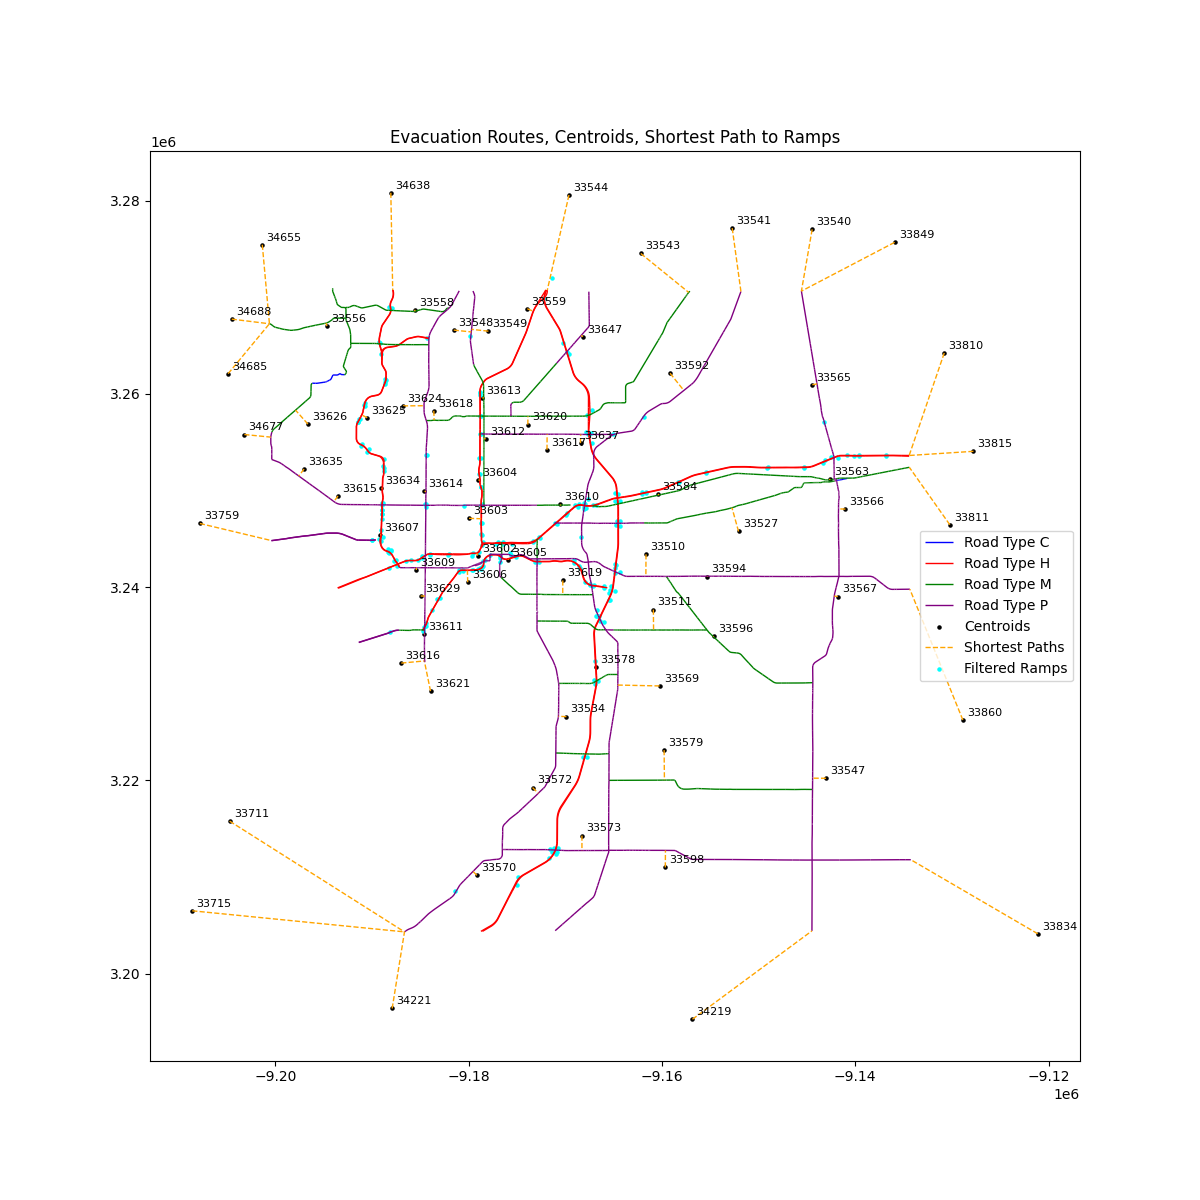
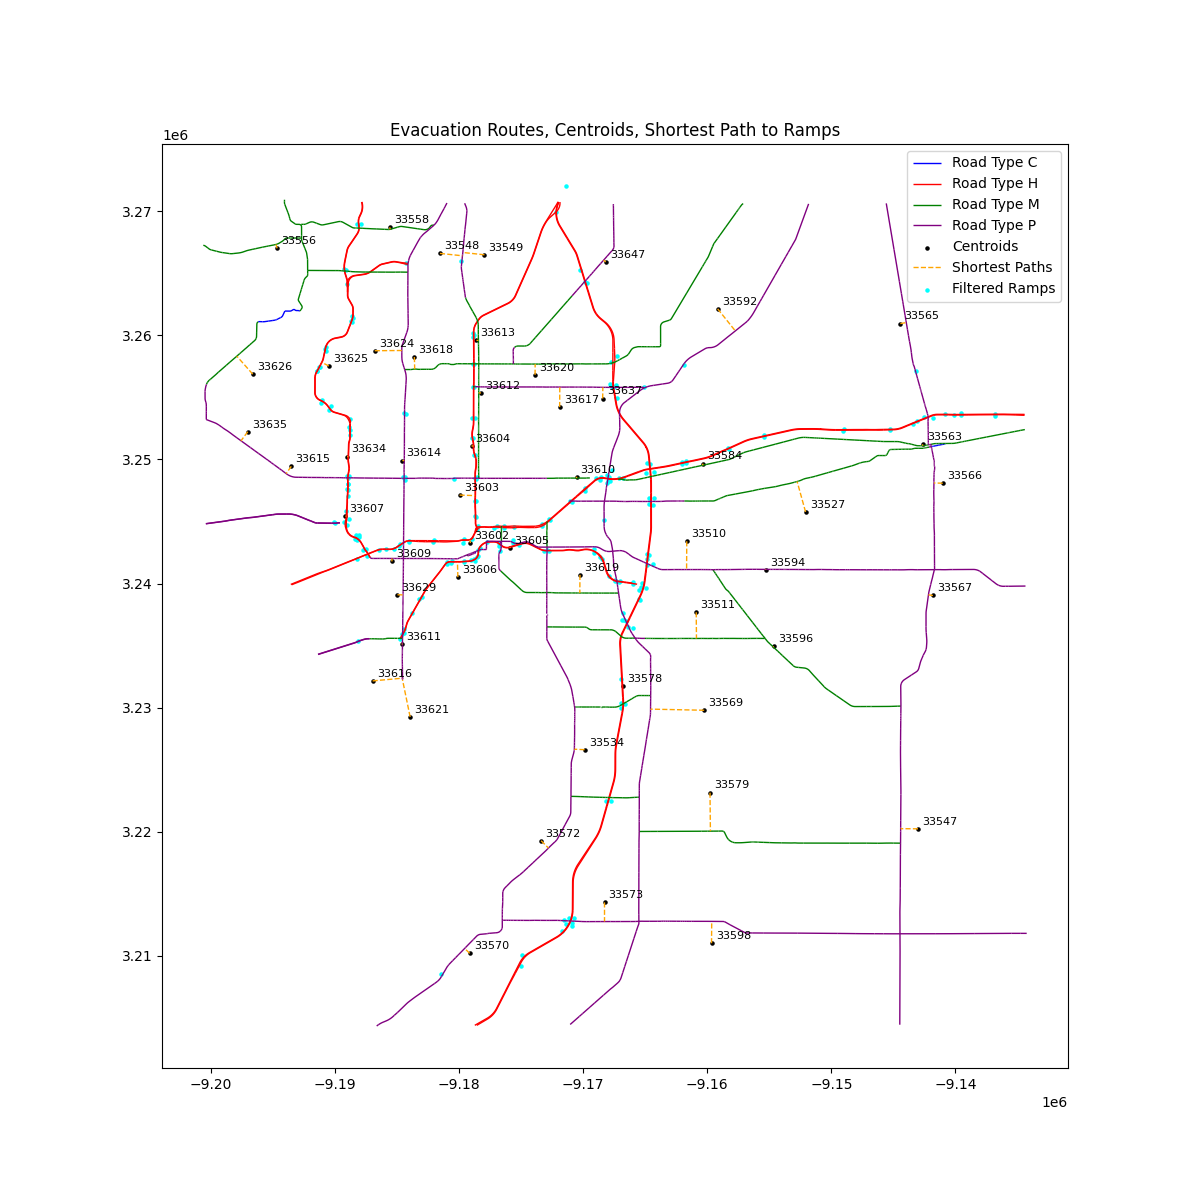
Removed some of the counties because they are in other counties other than Hillsborough, check read me for list removed

diff --git a/README.md b/README.md
@@ -1,3 +1,26 @@
 ## Welcome
 
 This project is inspired from Hurricane Milton, when we saw on the news how the interstate was just a parking lot because of all the congestion we knew there had to be a better way for people to evacuate safely and effectively out of the Tampa area. Our premise is to design a Maximum Flow network to get as many people out of the tampa area as possible given a hurricane path, we have set up several nodes from the zipcodes within Tampa and used the current evacuation route roads as our edges. 
+
+Our Zip Code Geoson Data contains several neighboring county zip codes while our evacuation roads only contain hillsborough county so if you remake the zip code centroids remove the following zip codes because they are in other counties
+
+33715 - Pinellas County - St. Pete
+33711 - Pinellas County - St. Pete
+34221 - Manatee County - Palmetto
+34219 - Manatee County - ?
+33834 - Hardee County - ?
+33860 - Polk County - Mulberry
+33811 - Polk County
+33815 - Polk County - Lakeland
+33810 - Polk County
+33849 - Polk Count
+33540 - Pasco County 
+33541 -  Pasco County 
+33543 -  Pasco County 
+33544 -  Pasco County 
+34638 -  Pasco County 
+34655 -  Pasco County 
+34688 - Pinellas County
+34685 - Pinellas County
+34677 - Pinellas County
+33759 - Pinellas County
